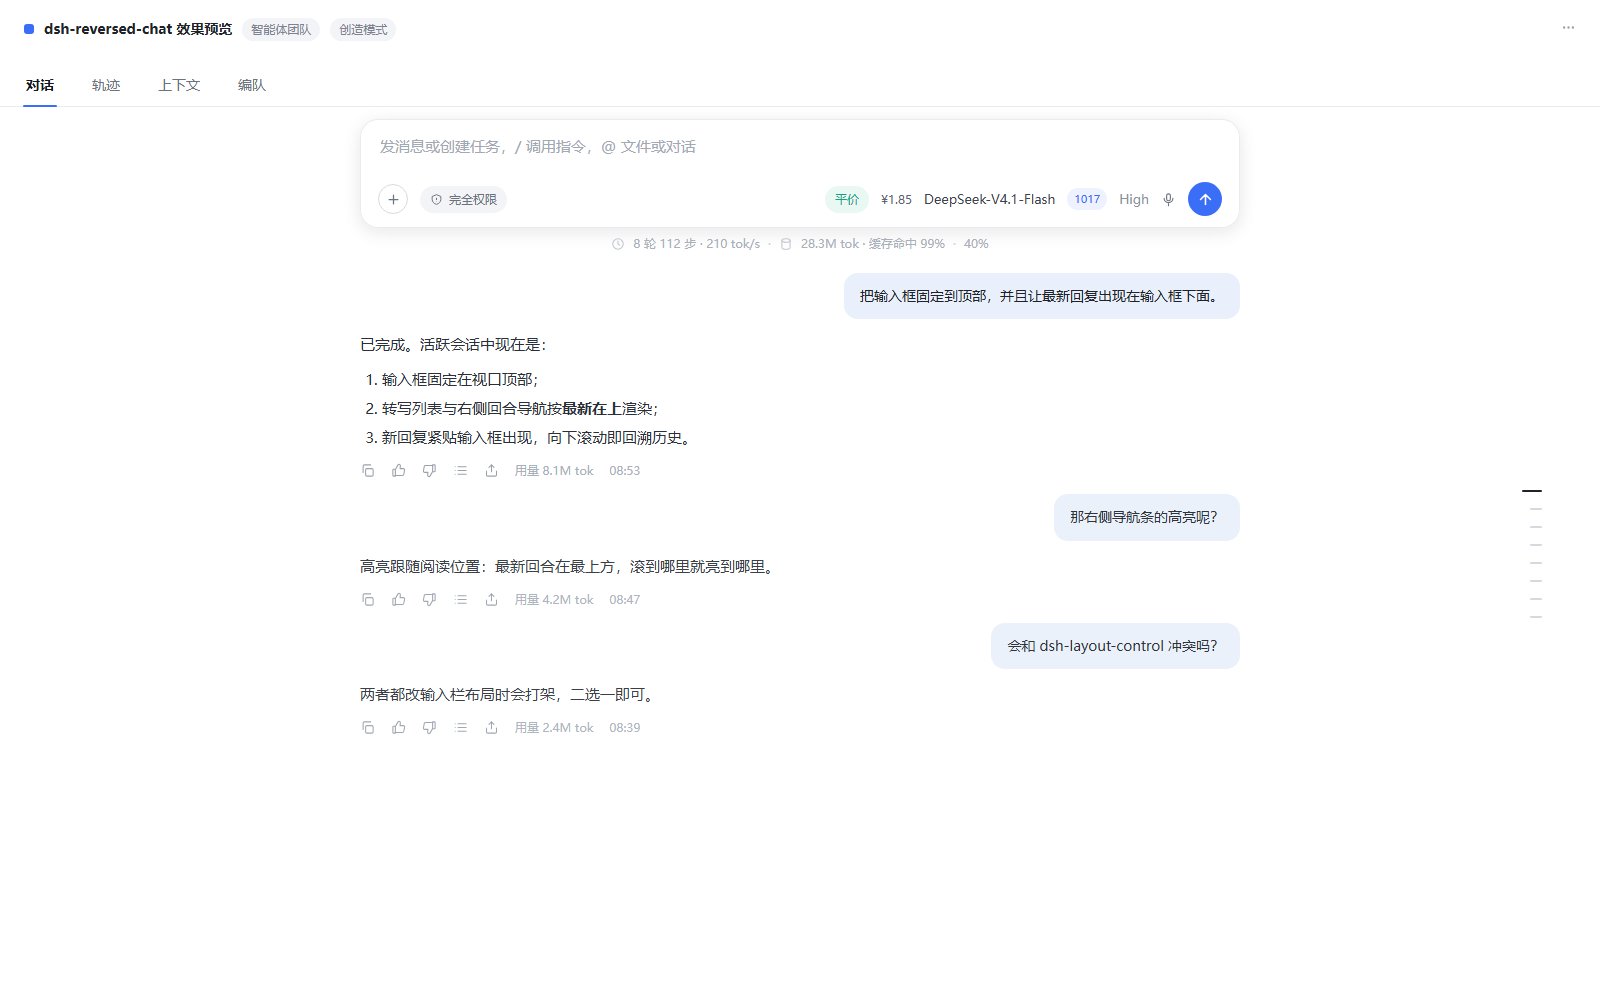
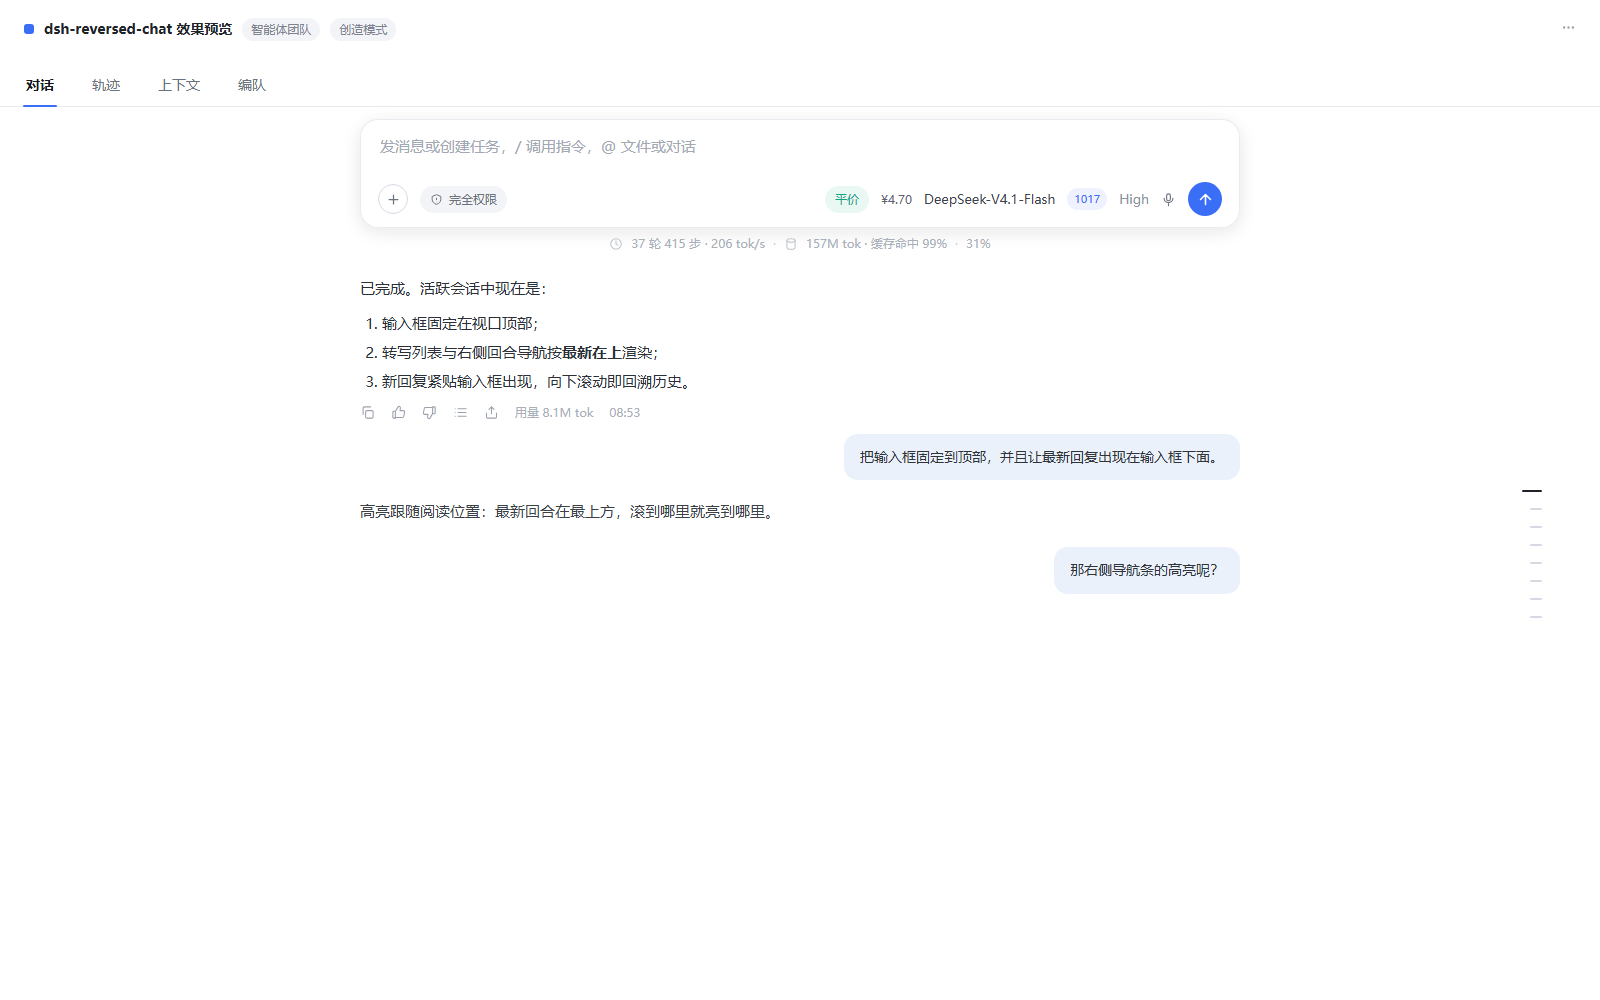
docs: show message-level reversal in README previews (newest reply above the question)

diff --git a/README.md b/README.md
@@ -10,9 +10,12 @@
 
 ## 效果预览
 
-![活跃会话：输入框置顶、最新回合在上](assets/screenshot-1.png)
+![活跃会话：输入框置顶 + 消息级倒序（模型最新回复在上，你的提问在下）](assets/screenshot-1.png)
 
-- **活跃会话**：输入框固定在视口顶部，最新一轮对话紧贴输入框出现；向下滚动即回溯历史。
+**阅读方向是倒序的（时间线自下而上）**：输入框固定在顶部，紧贴它的是**模型的最新回复**；往下依次是**你刚才的提问**、上一轮回复、更早的提问……越往下越早，正好与默认「最新在底部」的聊天相反。
+
+- **输入框**：活跃会话固定在视口顶部；
+- **转写内容**：消息级倒序——最新一条紧贴输入框，历史往下排，从下往上读就是正常时间顺序；
 - **右侧回合导航条**：最新回合在最上方，实心长条跟随阅读位置。
 
 ![向下滚动后：导航条高亮随阅读位置移动](assets/screenshot-2.png)
